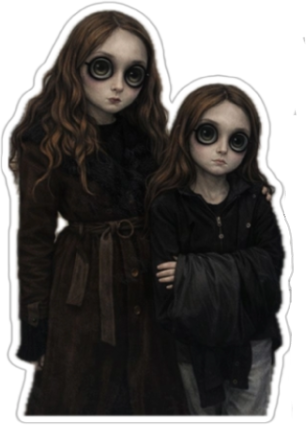
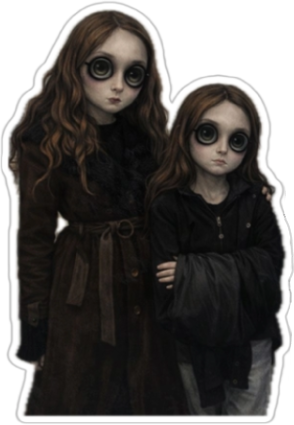
Swap in Boris's cleaned-up version of the dark sticker
Replaces sticker2.png with the touched-up version (no more stray
fragment near the top-right edge). Bumps its cache-busting to ?v=4 and
the site-wide version to v=27.

Claude-Session: https://claude.ai/code/session_01DexqJGxvAAU36TLFFn875v

diff --git a/contact/index.html b/contact/index.html
@@ -4,7 +4,7 @@
   <meta charset="UTF-8">
   <title>Contact — HiMountain</title>
   <meta name="viewport" content="width=device-width, initial-scale=1.0">
-  <link rel="stylesheet" href="../style.css?v=26">
+  <link rel="stylesheet" href="../style.css?v=27">
 </head>
 
 <body>
@@ -15,7 +15,7 @@
     <span class="menu-toggle-label">Menu</span>
   </button>
   <span class="menu-toggle-feather" id="menuToggleFeather">
-    <img src="../assets/feather_static.png?v=26" alt="">
+    <img src="../assets/feather_static.png?v=27" alt="">
   </span>
   </div>
 
@@ -51,7 +51,7 @@
       </div>
 
       <div class="contact-sticker-toggle">
-        <img src="../assets/sticker2.png?v=3" alt="" id="stickerToggleImg">
+        <img src="../assets/sticker2.png?v=4" alt="" id="stickerToggleImg">
         <button type="button" id="stickerToggleBtn">Cheer up!</button>
       </div>
 
@@ -60,7 +60,7 @@
 </main>
 
 
-  <script src="../Main.js?v=26"></script>
+  <script src="../Main.js?v=27"></script>
 
 </body>
 </html>

diff --git a/index.html b/index.html
@@ -4,7 +4,7 @@
   <meta charset="UTF-8">
   <title>HiMountain</title>
   <meta name="viewport" content="width=device-width, initial-scale=1.0">
-  <link rel="stylesheet" href="style.css?v=26">
+  <link rel="stylesheet" href="style.css?v=27">
   <!-- Preload the gate's spritesheet while the visitor is still on the
        homepage, so it's already cached by the time they click through
        to gate.html — avoids a visible load-lag before the animation
@@ -32,8 +32,8 @@
   </div>
 
   <!-- JS scripts -->
-  <script src="frames.js?v=26"></script>
-  <script src="fitTextToContainer.js?v=26"></script>
+  <script src="frames.js?v=27"></script>
+  <script src="fitTextToContainer.js?v=27"></script>
   <script>
     // --- Create the animation container dynamically ---
     const pre = document.createElement('pre');

diff --git a/projects/project3.html b/projects/project3.html
@@ -4,7 +4,7 @@
   <meta charset="UTF-8">
   <title>Down to Earth – HiMountain</title>
   <meta name="viewport" content="width=device-width, initial-scale=1.0">
-  <link rel="stylesheet" href="../style.css?v=26">
+  <link rel="stylesheet" href="../style.css?v=27">
 
   <style>
     /* ==========================================
@@ -254,7 +254,7 @@
     <span class="menu-toggle-label">Menu</span>
   </button>
   <span class="menu-toggle-feather" id="menuToggleFeather">
-    <img src="../assets/feather_static.png?v=26" alt="">
+    <img src="../assets/feather_static.png?v=27" alt="">
   </span>
   </div>
 
@@ -454,7 +454,7 @@
     </main>
 
 
-  <script src="../Main.js?v=26"></script>
+  <script src="../Main.js?v=27"></script>
 
   <script>
     document.addEventListener("DOMContentLoaded", () => {

diff --git a/projects/project1.html b/projects/project1.html
@@ -4,7 +4,7 @@
   <meta charset="UTF-8">
   <title>The Weekend — HiMountain</title>
   <meta name="viewport" content="width=device-width, initial-scale=1.0">
-  <link rel="stylesheet" href="../style.css?v=26">
+  <link rel="stylesheet" href="../style.css?v=27">
 </head>
 
 <body>
@@ -16,7 +16,7 @@
     <span class="menu-toggle-label">Menu</span>
   </button>
   <span class="menu-toggle-feather" id="menuToggleFeather">
-    <img src="../assets/feather_static.png?v=26" alt="">
+    <img src="../assets/feather_static.png?v=27" alt="">
   </span>
   </div>
 
@@ -249,7 +249,7 @@ Stories exist only when they are being told.
 
 
   <!-- Shared script -->
-  <script src="../Main.js?v=26"></script>
+  <script src="../Main.js?v=27"></script>
 
 </body>
 </html>

diff --git a/store/index.html b/store/index.html
@@ -4,7 +4,7 @@
   <meta charset="UTF-8">
   <title>Shop — HiMountain</title>
   <meta name="viewport" content="width=device-width, initial-scale=1.0">
-  <link rel="stylesheet" href="../style.css?v=26">
+  <link rel="stylesheet" href="../style.css?v=27">
 </head>
 
 <body>
@@ -16,7 +16,7 @@
     <span class="menu-toggle-label">Menu</span>
   </button>
   <span class="menu-toggle-feather" id="menuToggleFeather">
-    <img src="../assets/feather_static.png?v=26" alt="">
+    <img src="../assets/feather_static.png?v=27" alt="">
   </span>
   </div>
 
@@ -72,7 +72,7 @@
   </div>
   </main>
 
-  <script src="../Main.js?v=26"></script>
+  <script src="../Main.js?v=27"></script>
 
   <!-- CAROUSEL SCRIPT -->
   <script>

diff --git a/projects/project4.html b/projects/project4.html
@@ -4,7 +4,7 @@
   <meta charset="UTF-8">
   <title>You Are All Daylight — HiMountain</title>
   <meta name="viewport" content="width=device-width, initial-scale=1.0">
-  <link rel="stylesheet" href="../style.css?v=26">
+  <link rel="stylesheet" href="../style.css?v=27">
 </head>
 
 <body>
@@ -15,7 +15,7 @@
     <span class="menu-toggle-label">Menu</span>
   </button>
   <span class="menu-toggle-feather" id="menuToggleFeather">
-    <img src="../assets/feather_static.png?v=26" alt="">
+    <img src="../assets/feather_static.png?v=27" alt="">
   </span>
   </div>
 
@@ -146,7 +146,7 @@
   </main>
 
 
-  <script src="../Main.js?v=26"></script>
+  <script src="../Main.js?v=27"></script>
 
 </body>
 </html>

diff --git a/projects/project2.html b/projects/project2.html
@@ -4,7 +4,7 @@
   <meta charset="UTF-8">
   <title>Being Different – HiMountain</title>
   <meta name="viewport" content="width=device-width, initial-scale=1.0">
-  <link rel="stylesheet" href="../style.css?v=26">
+  <link rel="stylesheet" href="../style.css?v=27">
 </head>
 
 <body>
@@ -16,7 +16,7 @@
     <span class="menu-toggle-label">Menu</span>
   </button>
   <span class="menu-toggle-feather" id="menuToggleFeather">
-    <img src="../assets/feather_static.png?v=26" alt="">
+    <img src="../assets/feather_static.png?v=27" alt="">
   </span>
   </div>
 
@@ -144,7 +144,7 @@
     </main>
 
 
-  <script src="../Main.js?v=26"></script>
+  <script src="../Main.js?v=27"></script>
 
 </body>
 </html>

diff --git a/projects/index.html b/projects/index.html
@@ -4,7 +4,7 @@
   <meta charset="UTF-8">
   <title>Stories — HiMountain</title>
   <meta name="viewport" content="width=device-width, initial-scale=1.0">
-  <link rel="stylesheet" href="../style.css?v=26">
+  <link rel="stylesheet" href="../style.css?v=27">
 </head>
 
 <body>
@@ -15,7 +15,7 @@
     <span class="menu-toggle-label">Menu</span>
   </button>
   <span class="menu-toggle-feather" id="menuToggleFeather">
-    <img src="../assets/feather_static.png?v=26" alt="">
+    <img src="../assets/feather_static.png?v=27" alt="">
   </span>
   </div>
 
@@ -52,7 +52,7 @@
   </main>
 
 
-  <script src="../Main.js?v=26"></script>
+  <script src="../Main.js?v=27"></script>
 
 </body>
 </html>

diff --git a/Main.js b/Main.js
@@ -148,7 +148,7 @@ if (stickerToggleImg && stickerToggleBtn) {
 
   stickerToggleBtn.addEventListener('click', () => {
     cheered = !cheered;
-    stickerToggleImg.src = cheered ? '../assets/sticker1.png?v=3' : '../assets/sticker2.png?v=3';
+    stickerToggleImg.src = cheered ? '../assets/sticker1.png?v=3' : '../assets/sticker2.png?v=4';
     stickerToggleBtn.textContent = cheered ? 'Cheer down' : 'Cheer up!';
   });
 }
